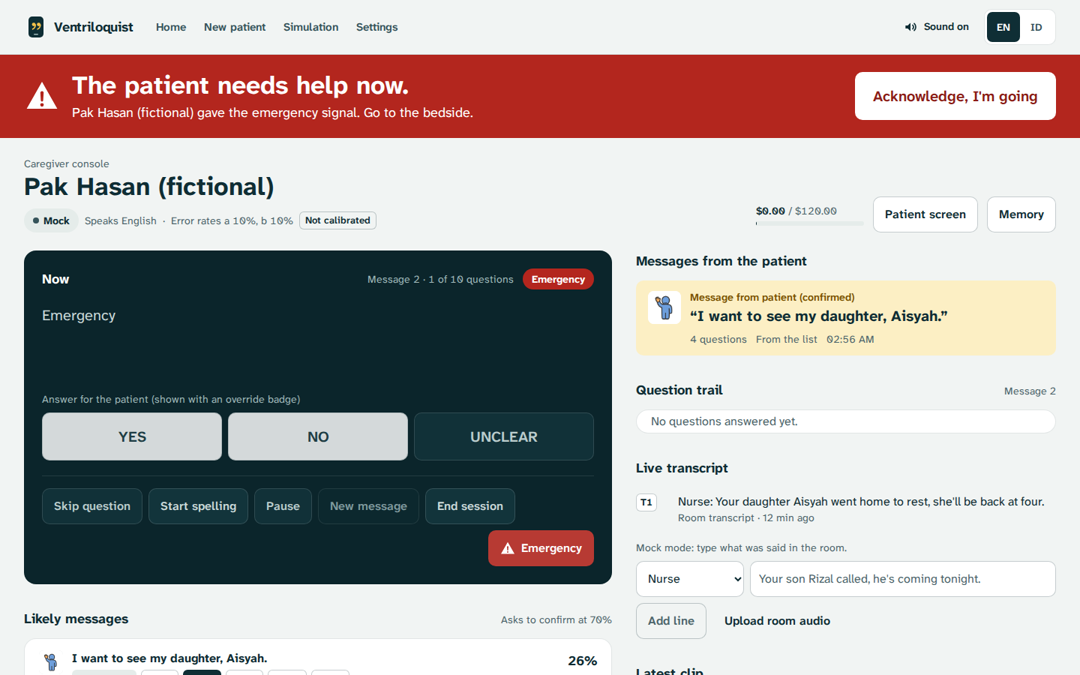
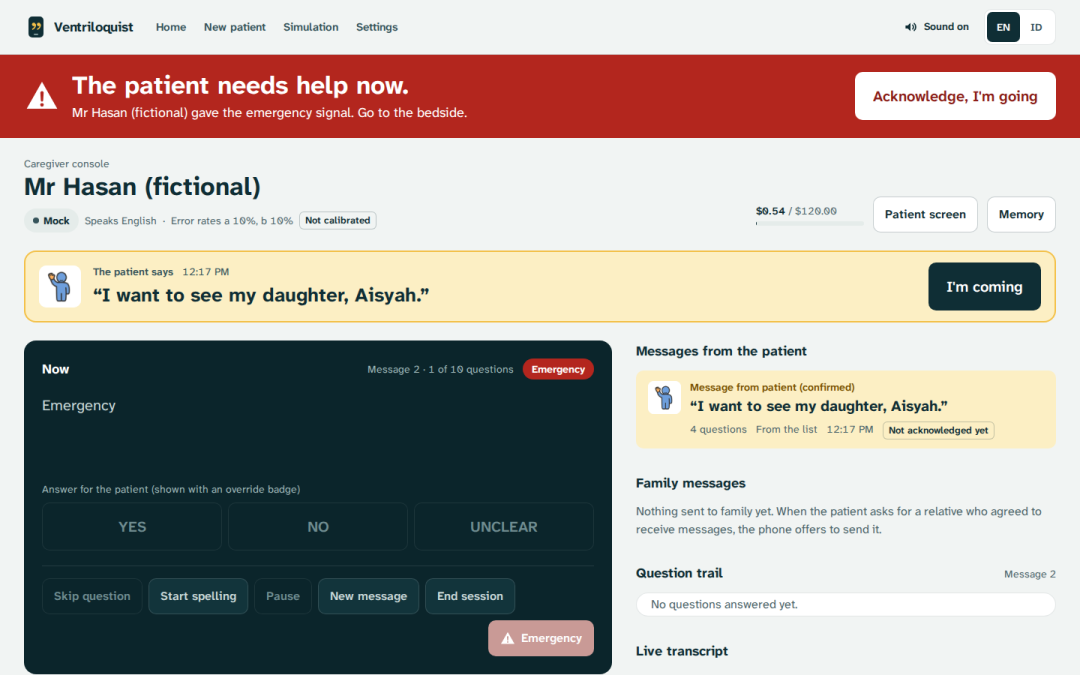
feat(app): the demo patient is Mr Hasan; privacy mode names Muse Spark Open
- The daughter scenario's patient is "Mr Hasan (fictional)" in English. The Indonesian
  strings keep "Pak Hasan", which is the same form of address.
- The judge's reading now carries the provider that made it. In privacy mode the question
  trail and the calibration results say "Muse Spark Open" instead of "Muse Spark".
- README screenshots retaken with the new name: the console (mock and live) and the alarm.
- The smoke script picks the simulation checkbox by name; setup gained a second checkbox.

diff --git a/frontend/src/components/caregiver/Trail.tsx b/frontend/src/components/caregiver/Trail.tsx
@@ -37,8 +37,15 @@ export function AnswerPill({ answer, t }: { answer: string; t: TFn }) {
   );
 }
 
+// In privacy mode the judge is Muse Spark Open, served by one of these hosts.
+const OPEN_WEIGHT_HOSTS = new Set(['baseten', 'modal']);
+
 function sourceLine(name: string, s: SourceOutput, t: TFn): string {
-  const label = SOURCE_NAMES[name] ? t(SOURCE_NAMES[name]) : name;
+  const key =
+    name === 'spark' && OPEN_WEIGHT_HOSTS.has(String(s.provider))
+      ? 'source.spark_open'
+      : SOURCE_NAMES[name];
+  const label = key ? t(key) : name;
   if (s.pending) return `${label}: ${t('trail.source_pending')}`;
   if (s.error) return `${label}: ${t('trail.source_error')} (${String(s.error)})`;
   if (s.ok === false) return `${label}: ${t('trail.source_failed')}`;

diff --git a/frontend/src/routes/Calibrate.tsx b/frontend/src/routes/Calibrate.tsx
@@ -613,7 +613,11 @@ function Results({
                 {sources.map(([k, v]) => (
                   <tr key={k} className="border-t border-line">
                     <th scope="row" className="py-1.5 text-left font-semibold">
-                      {t(`source.${k}` as Key)}
+                      {t(
+                        k === 'spark' && result.mode === 'privacy'
+                          ? 'source.spark_open'
+                          : (`source.${k}` as Key),
+                      )}
                     </th>
                     <td className="tabular py-1.5 text-right">{pct(v)}</td>
                   </tr>

diff --git a/frontend/src/test/fixtures.ts b/frontend/src/test/fixtures.ts
@@ -5,7 +5,7 @@ export function snapshot(overrides: Partial<Snapshot> = {}): Snapshot {
     session_id: 'ses_test',
     patient: {
       id: 'pt_test',
-      display_name: 'Pak Hasan (fictional)',
+      display_name: 'Mr Hasan (fictional)',
       language: 'en',
       honorific: 'Bapak',
     },

diff --git a/backend/app/perception/pipeline.py b/backend/app/perception/pipeline.py
@@ -232,12 +232,22 @@ async def perceive(
                 "error": "timeout",
             }
             return SourceResult(
-                "spark", {}, ok=False, detail={"error": "timeout"}, calls=[timed_out]
+                "spark",
+                {},
+                ok=False,
+                detail={"error": "timeout", "provider": vl.provider},
+                calls=[timed_out],
             )
         usd += r.meta.usd
         calls = [r.meta.to_dict()]
         if not r.ok:
-            return SourceResult("spark", {}, ok=False, detail={"error": r.meta.error}, calls=calls)
+            return SourceResult(
+                "spark",
+                {},
+                ok=False,
+                detail={"error": r.meta.error, "provider": vl.provider},
+                calls=calls,
+            )
         return SourceResult(
             "spark",
             judge_probs(r.data.classification, r.data.confidence),
@@ -246,6 +256,7 @@ async def perceive(
                 "observed": r.data.observed_movement,
                 "frame_times": r.data.frame_times,
                 "latency_ms": round(r.meta.latency_ms),
+                "provider": vl.provider,  # baseten or modal: Muse Spark Open (privacy mode)
             },
             calls,
         )

diff --git a/backend/tests/test_relay.py b/backend/tests/test_relay.py
@@ -140,13 +140,13 @@ async def test_sensitive_messages_are_never_offered(ctx):
 def test_whatsapp_body_template_outside_the_window_text_inside(ctx):
     ch = WhatsAppChannel(ctx.settings, "token", "106540352242922")
     assert ch.url == "https://graph.facebook.com/v26.0/106540352242922/messages"
-    first = ch.body("+6281234567890", "id", "Pak Hasan", "Saya ingin bertemu putri saya, Aisyah.")
+    first = ch.body("+6281234567890", "id", "Mr Hasan", "Saya ingin bertemu putri saya, Aisyah.")
     assert first["type"] == "template" and first["template"]["name"] == "patient_message"
     assert first["template"]["language"] == {"code": "id"}
     params = first["template"]["components"][0]["parameters"]
-    assert [p["text"] for p in params] == ["Pak Hasan", "Saya ingin bertemu putri saya, Aisyah."]
+    assert [p["text"] for p in params] == ["Mr Hasan", "Saya ingin bertemu putri saya, Aisyah."]
     ch.note_inbound("+6281234567890")
-    later = ch.body("+6281234567890", "en", "Pak Hasan", "Please call me.")
+    later = ch.body("+6281234567890", "en", "Mr Hasan", "Please call me.")
     assert later["type"] == "text" and '"Please call me."' in later["text"]["body"]
 
 

diff --git a/backend/tests/test_session.py b/backend/tests/test_session.py
@@ -269,7 +269,7 @@ async def test_session_log_redacts_profile_names(ctx):
     await s.start()
     await run_until(s)
     raw = s.log.path.read_text()
-    assert "Aisyah" not in raw and "Pak Hasan" not in raw
+    assert "Aisyah" not in raw and "Mr Hasan" not in raw
     assert "[daughter]" in raw
 
 
